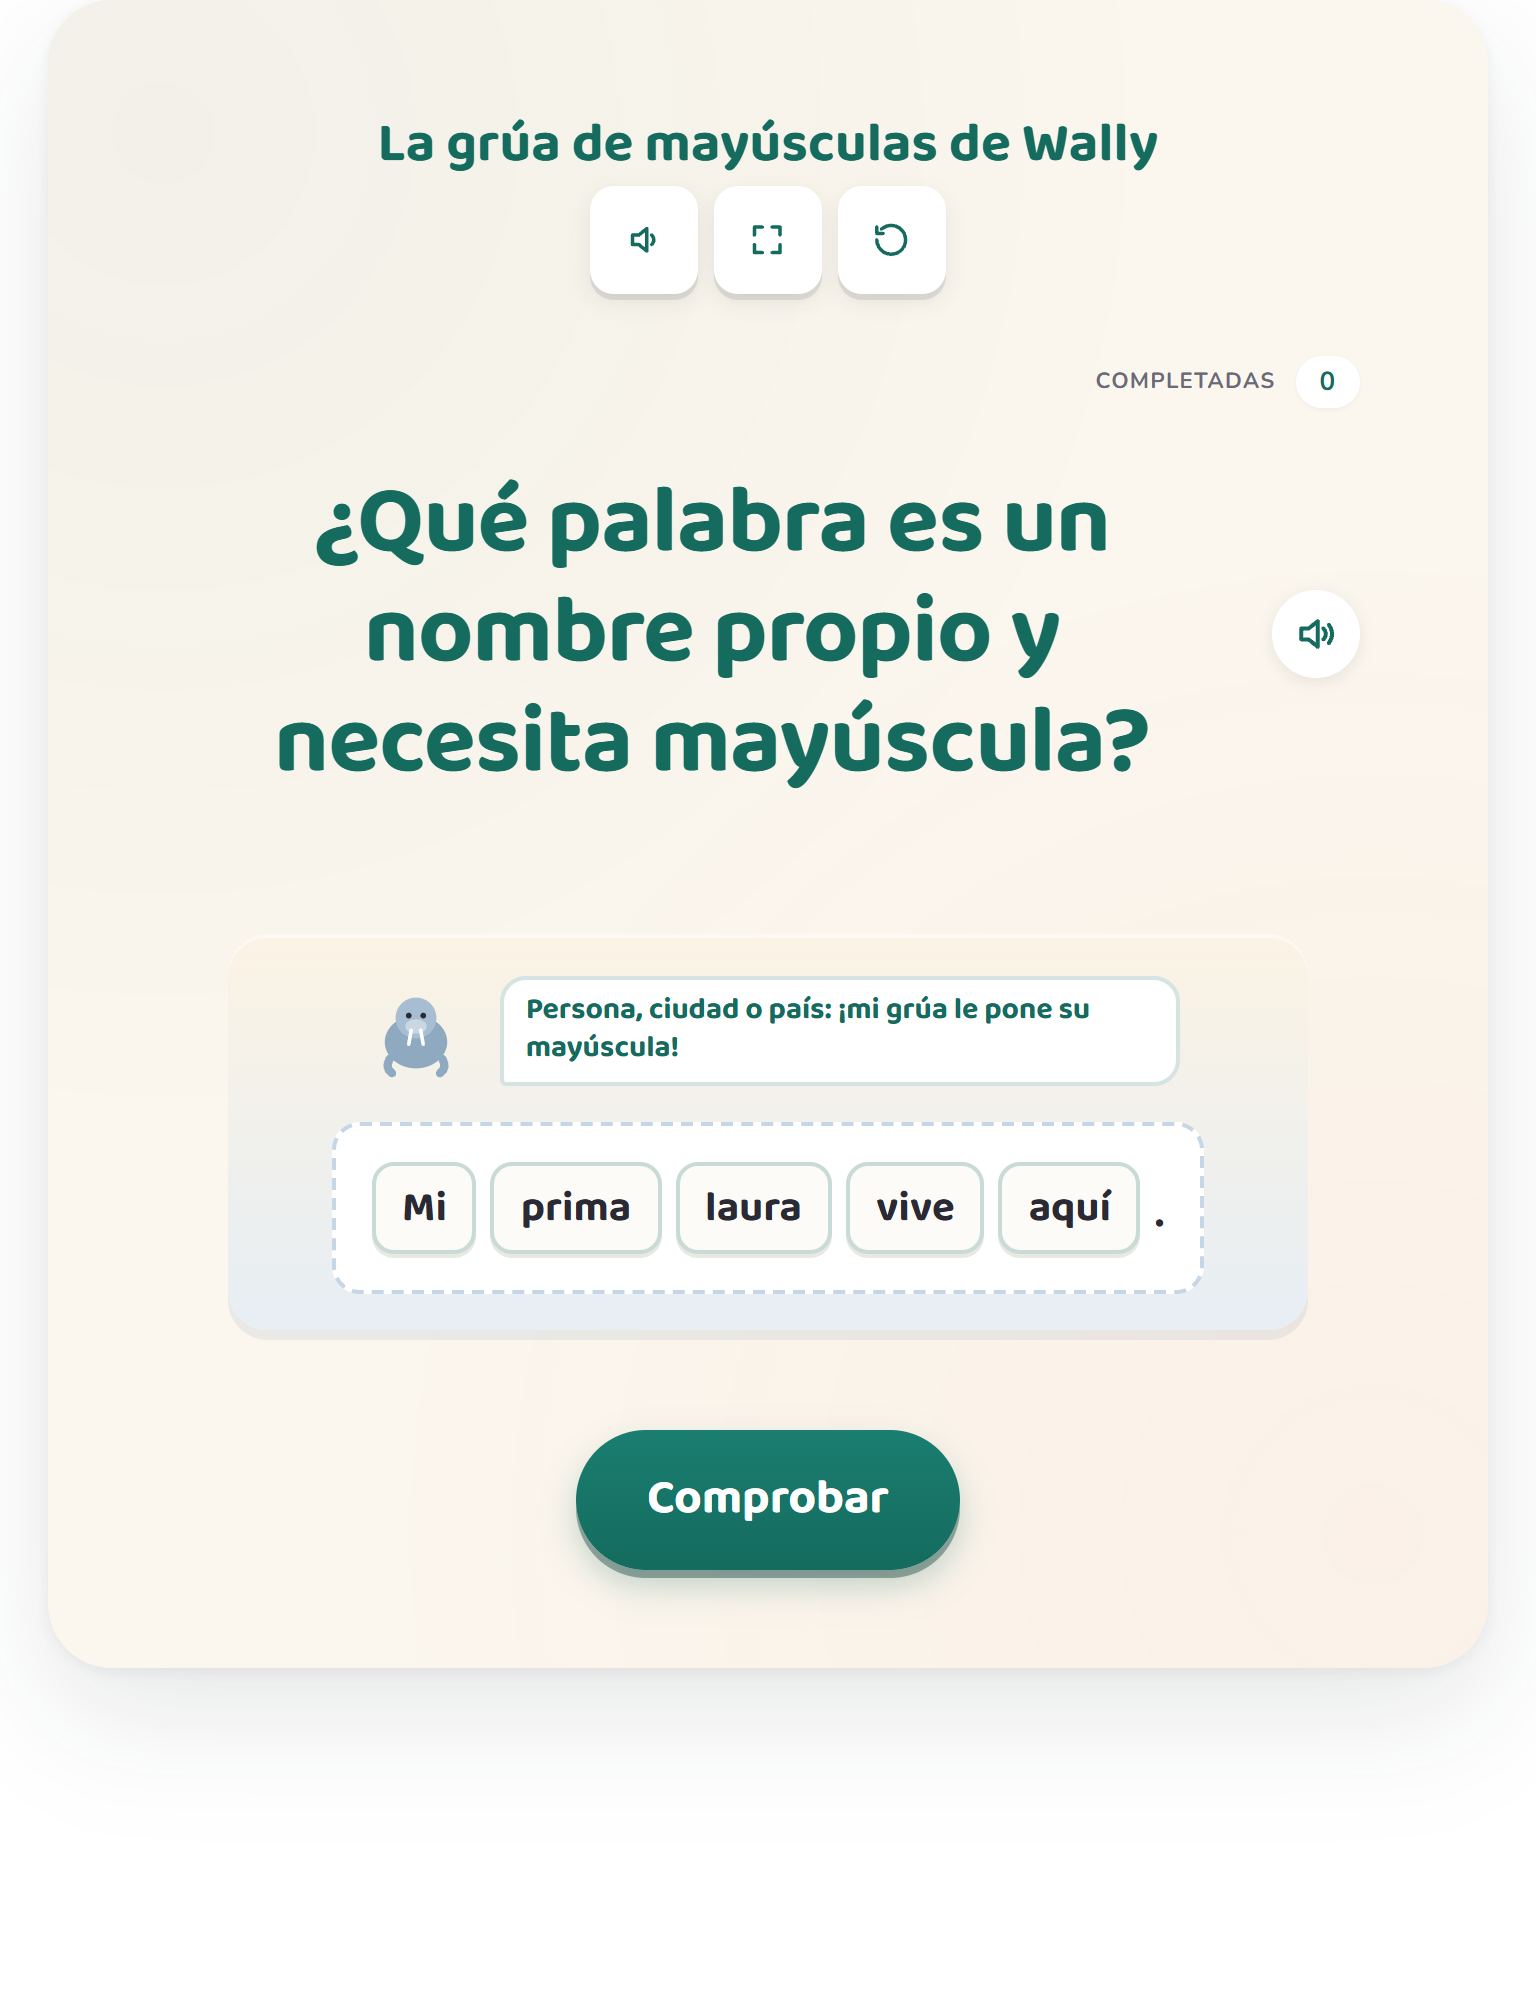
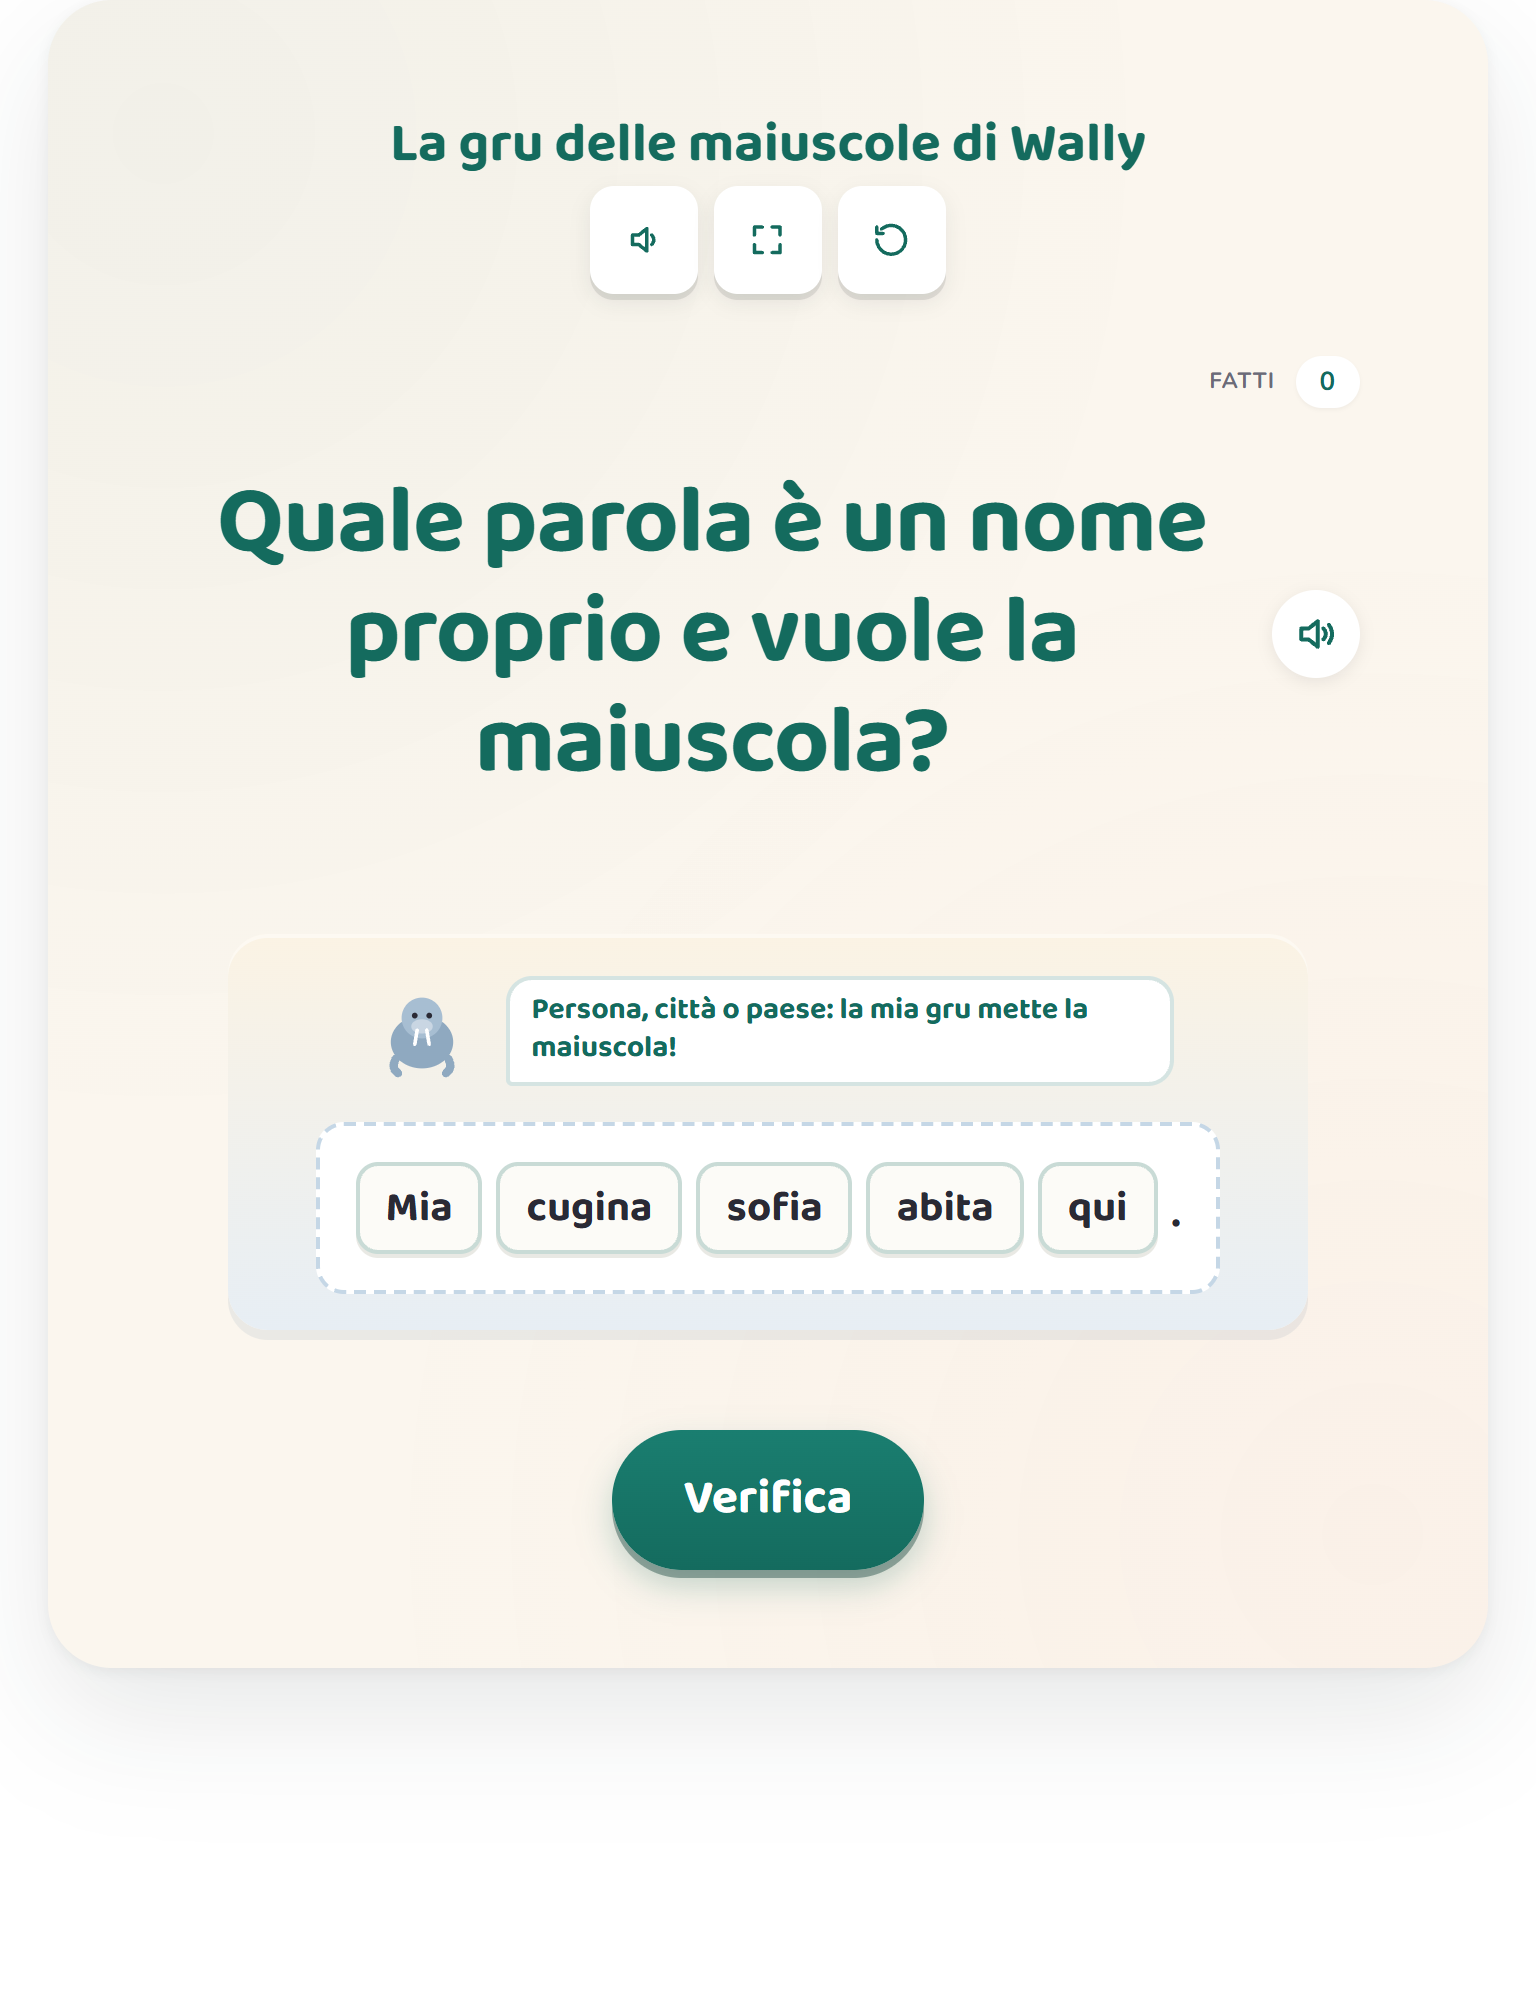
[FEATURE][I18N][IT] wally-capital-crane #32 — La gru delle maiuscole di Wally (classe seconda)
12th it LITERACY of the second-batch fan-out (pt sibling «Wally e seu
guindaste», es «La grúa de mayúsculas de Wally»). Rebuild not translate for the
Indicazioni nazionali — la maiuscola nei nomi propri, classe seconda. 3-agent
native ensemble.

Ensemble rulings:
- CATEGORY = proper names = PEOPLE + PLACES only (matching fr/es/pt; no holiday
  — keeps the persona/città/paese contract clean). 5 persone / 3 luoghi.
- ⚠ isWord ASCII-gate: a pure-accent token like «è» would render as inert
  punctuation, so every round sentence avoids «è» as a standalone token
  (verified 0 across all 8 rounds).
- Round-4 article-drop fix «La mia cugina sofia» → «Mia cugina sofia»: singular
  unmodified kinship nouns with a possessive drop the article (mia cugina / mio
  zio); the activity models correctness.
- GRADE = classe seconda (manifest "2", NO override); STRAND stays «Riflessione
  linguistica» (no override, same as #30 — Italian has no orthography nucleus).
- Character «Wally, un tricheco»; deck bot-guards pass (position 0.375,
  longest/shortest 0, all propers distinct).

Round-data-driven engine (no per-locale map, no audio): activity-layer edit =
the 7 it: strings only. 0 lines to capital-name-core.js / lcs-shell.* /
Direction-A CSS. wrapper 9.484→9.485, html ?v=6. LOCAL only — NO deploy.

diff --git a/mini tools/wally-capital-crane-activity.js b/mini tools/wally-capital-crane-activity.js
@@ -34,13 +34,13 @@
     id: 'wally-capital-crane-activity',
 
     strings: {
-      title: { en: "Wally's Capital Crane", de: 'Wallys Großbuchstaben-Kran', fr: 'Wally et la grue à majuscules', es: 'La grúa de mayúsculas de Wally', pt: 'Wally e seu guindaste' },
-      instruction: { en: 'Tap the special name that needs a capital letter.', de: 'Tippe das Nomen an, das großgeschrieben wird.', fr: 'Touche le nom propre qui a oublié sa majuscule.', es: 'Toca el nombre propio que necesita mayúscula.', pt: 'Toque no nome próprio que precisa de letra maiúscula.' },
-      prompt: { en: 'Tap the word that needs a capital letter.', de: 'Welches Wort ist ein Nomen und wird großgeschrieben?', fr: 'Quel mot est un nom propre et prend une majuscule ?', es: '¿Qué palabra es un nombre propio y necesita mayúscula?', pt: 'Toque na palavra que precisa de letra maiúscula.' },
-      wallyIntro: { en: 'Special names get a BIG letter — lift it up with the crane!', de: 'Nomen schreibt man groß — mein Kran hebt den Buchstaben hoch!', fr: 'Personne, ville ou pays : ma grue lui met sa majuscule !', es: 'Persona, ciudad o país: ¡mi grúa le pone su mayúscula!', pt: 'Nome próprio começa com letra maiúscula!' },
-      hintPick: { en: 'Holidays, places, and products are special names — they need a capital.', de: 'Nomen (Namenwörter für Menschen, Tiere und Dinge) schreibt man immer groß. Welches Wort ist ein Nomen?', fr: 'Cherche le nom d’une personne, d’une ville ou d’un pays : il prend une majuscule.', es: 'Busca el nombre de una persona, una ciudad o un país: lleva mayúscula.', pt: 'Nomes de pessoas e lugares são nomes próprios — começam com maiúscula.' },
-      hintWrong: { en: 'That one is fine. Find the special name (a holiday, place, or product).', de: 'Fast! Das ist kein Nomen. Suche das Wort für einen Menschen, ein Tier oder ein Ding.', fr: 'Ce mot n’est pas un nom propre. Cherche plutôt le nom d’une personne, d’une ville ou d’un pays.', es: 'Esa palabra no es un nombre propio. Busca el nombre de una persona, una ciudad o un país.', pt: 'Esse está certo. Ache o nome próprio (de uma pessoa ou de um lugar).' },
-      win: { en: 'Yes! That special name gets a big capital letter. 🏗', de: 'Stark! Du hast das Nomen großgeschrieben! 🏗', fr: 'Bravo ! Wally a soulevé la majuscule ! 🏗', es: '¡Muy bien! Wally levantó la mayúscula. 🏗', pt: 'Isso! Esse nome próprio ganha uma letra maiúscula bem grande. 🏗' }
+      title: { en: "Wally's Capital Crane", de: 'Wallys Großbuchstaben-Kran', fr: 'Wally et la grue à majuscules', es: 'La grúa de mayúsculas de Wally', pt: 'Wally e seu guindaste', it: 'La gru delle maiuscole di Wally' },
+      instruction: { en: 'Tap the special name that needs a capital letter.', de: 'Tippe das Nomen an, das großgeschrieben wird.', fr: 'Touche le nom propre qui a oublié sa majuscule.', es: 'Toca el nombre propio que necesita mayúscula.', pt: 'Toque no nome próprio que precisa de letra maiúscula.', it: 'Tocca il nome proprio che ha bisogno della maiuscola.' },
+      prompt: { en: 'Tap the word that needs a capital letter.', de: 'Welches Wort ist ein Nomen und wird großgeschrieben?', fr: 'Quel mot est un nom propre et prend une majuscule ?', es: '¿Qué palabra es un nombre propio y necesita mayúscula?', pt: 'Toque na palavra que precisa de letra maiúscula.', it: 'Quale parola è un nome proprio e vuole la maiuscola?' },
+      wallyIntro: { en: 'Special names get a BIG letter — lift it up with the crane!', de: 'Nomen schreibt man groß — mein Kran hebt den Buchstaben hoch!', fr: 'Personne, ville ou pays : ma grue lui met sa majuscule !', es: 'Persona, ciudad o país: ¡mi grúa le pone su mayúscula!', pt: 'Nome próprio começa com letra maiúscula!', it: 'Persona, città o paese: la mia gru mette la maiuscola!' },
+      hintPick: { en: 'Holidays, places, and products are special names — they need a capital.', de: 'Nomen (Namenwörter für Menschen, Tiere und Dinge) schreibt man immer groß. Welches Wort ist ein Nomen?', fr: 'Cherche le nom d’une personne, d’une ville ou d’un pays : il prend une majuscule.', es: 'Busca el nombre de una persona, una ciudad o un país: lleva mayúscula.', pt: 'Nomes de pessoas e lugares são nomes próprios — começam com maiúscula.', it: 'Cerca il nome di una persona, di una città o di un paese: vuole la maiuscola.' },
+      hintWrong: { en: 'That one is fine. Find the special name (a holiday, place, or product).', de: 'Fast! Das ist kein Nomen. Suche das Wort für einen Menschen, ein Tier oder ein Ding.', fr: 'Ce mot n’est pas un nom propre. Cherche plutôt le nom d’une personne, d’une ville ou d’un pays.', es: 'Esa palabra no es un nombre propio. Busca el nombre de una persona, una ciudad o un país.', pt: 'Esse está certo. Ache o nome próprio (de uma pessoa ou de um lugar).', it: 'Quella parola non è un nome proprio. Cerca il nome di una persona o di un luogo.' },
+      win: { en: 'Yes! That special name gets a big capital letter. 🏗', de: 'Stark! Du hast das Nomen großgeschrieben! 🏗', fr: 'Bravo ! Wally a soulevé la majuscule ! 🏗', es: '¡Muy bien! Wally levantó la mayúscula. 🏗', pt: 'Isso! Esse nome próprio ganha uma letra maiúscula bem grande. 🏗', it: 'Sì! Il nome proprio prende una bella maiuscola. 🏗' }
     },
     defaults: {},
 

diff --git a/frontend/app/[locale]/activities/[slug]/page.tsx b/frontend/app/[locale]/activities/[slug]/page.tsx
@@ -547,7 +547,7 @@ export default async function ActivityPage({ params }: { params: PageParams }) {
   // applied here to the iframe-loaded wrapper URL (the only un-busted
   // link in the activity-page → mini-tool chain). The wrapper reads
   // only `activity` / `lang` / `embed` params; `v` is harmless to it.
-  const ACTIVITY_WRAPPER_VERSION = '9.484';
+  const ACTIVITY_WRAPPER_VERSION = '9.485';
 
   const iframeSrc =
     `/mini-tools/${row.tool}.html?v=${ACTIVITY_WRAPPER_VERSION}` +

diff --git a/mini tools/wally-capital-crane-activity.html b/mini tools/wally-capital-crane-activity.html
@@ -17,7 +17,7 @@
        NOTE: bump ?v=N on EVERY change to wally-capital-crane-activity.js / capital-name-core.js (§A.13.42). -->
   <script src="/mini-tools/lcs-shell.js?v=5"></script>
   <script src="/mini-tools/capital-name-core.js?v=1"></script>
-  <script src="/mini-tools/wally-capital-crane-activity.js?v=5"></script>
+  <script src="/mini-tools/wally-capital-crane-activity.js?v=6"></script>
   <script>
     LCS.mount(WallyCapitalCraneActivity, { mount: '#lcs-root' });
   </script>
